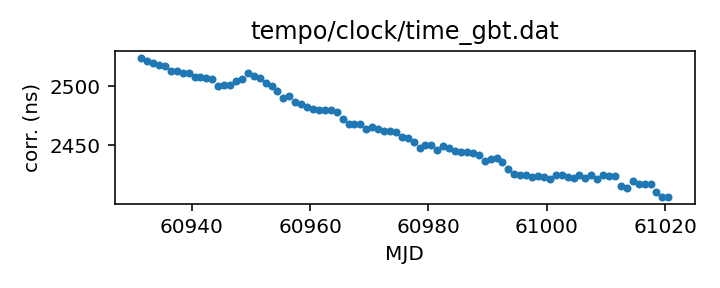
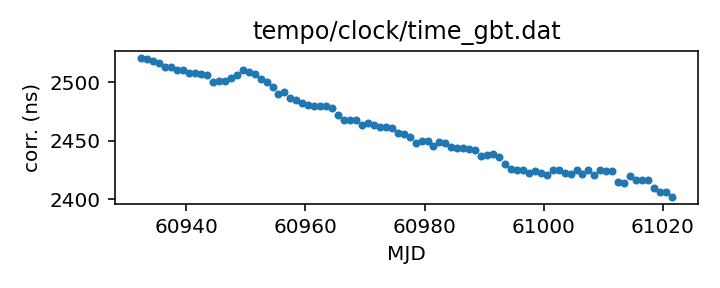
Routine gh-pages update from Github action Sat Dec 13 20:42:00 UTC 2025

diff --git a/status.md b/status.md
@@ -13,18 +13,18 @@ name of each clock file links to a page with more details.
 
 | Name | File | Corrections start | Corrections end | Last check date | Last check result 
 |:--- |:--- | --- | --- | --- |:--- 
-| [GPS to UTC](T2runtime/clock/gps2utc.clk.html) | `T2runtime/clock/gps2utc.clk` | 1993-01-01 MJD 48988.0 | 2025-11-30 MJD 61009.0 | 2025-12-12 | Unchanged 
-| [GPS to UTC (Combined Clock)](T2runtime/clock/gps2utc_cc.clk.html) | `T2runtime/clock/gps2utc_cc.clk` | 1993-01-01 MJD 48988.0 | 2025-11-30 MJD 61009.0 | 2025-12-12 | Unchanged 
-| [GPS to UTC (Corrected)](T2runtime/clock/gps2utc_c0p.clk.html) | `T2runtime/clock/gps2utc_c0p.clk` | 2010-12-29 MJD 55559.0 | 2025-11-30 MJD 61009.0 | 2025-12-12 | Unchanged 
-| [GBT](tempo/clock/time_gbt.dat.html) | `tempo/clock/time_gbt.dat` | 2000-12-31 MJD 51909.5 | 2025-12-11 MJD 61020.5 | 2025-12-12 | Updated 
-| [GBT (TEMPO2 converted from TEMPO)](T2runtime/clock/gbt2gps.clk.html) | `T2runtime/clock/gbt2gps.clk` | 2000-12-31 MJD 51909.5 | 2024-05-18 MJD 60448.5 | 2025-12-12 | **Validation failed** 
+| [GPS to UTC](T2runtime/clock/gps2utc.clk.html) | `T2runtime/clock/gps2utc.clk` | 1993-01-01 MJD 48988.0 | 2025-11-30 MJD 61009.0 | 2025-12-13 | Unchanged 
+| [GPS to UTC (Combined Clock)](T2runtime/clock/gps2utc_cc.clk.html) | `T2runtime/clock/gps2utc_cc.clk` | 1993-01-01 MJD 48988.0 | 2025-11-30 MJD 61009.0 | 2025-12-13 | Unchanged 
+| [GPS to UTC (Corrected)](T2runtime/clock/gps2utc_c0p.clk.html) | `T2runtime/clock/gps2utc_c0p.clk` | 2010-12-29 MJD 55559.0 | 2025-11-30 MJD 61009.0 | 2025-12-13 | Unchanged 
+| [GBT](tempo/clock/time_gbt.dat.html) | `tempo/clock/time_gbt.dat` | 2000-12-31 MJD 51909.5 | 2025-12-12 MJD 61021.5 | 2025-12-13 | Updated 
+| [GBT (TEMPO2 converted from TEMPO)](T2runtime/clock/gbt2gps.clk.html) | `T2runtime/clock/gbt2gps.clk` | 2000-12-31 MJD 51909.5 | 2024-05-18 MJD 60448.5 | 2025-12-13 | **Validation failed** 
 | [Jodrell Bank](T2runtime/clock/jb2gps.clk.html) | `T2runtime/clock/jb2gps.clk` | 2006-10-13 MJD 54021.4 | 2025-10-08 MJD 60956.0 | 2025-12-08 | **Validation failed** 
 | [Jodrell Bank Roach](T2runtime/clock/jbroach2jb.clk.html) | `T2runtime/clock/jbroach2jb.clk` | 2006-10-13 MJD 54021.4 | 2018-03-20 MJD 58197.6 | 2025-12-08 | Unchanged 
 | [Jodrell Bank DFB](T2runtime/clock/jbdfb2jb.clk.html) | `T2runtime/clock/jbdfb2jb.clk` | 2006-10-13 MJD 54021.4 | 2021-02-22 MJD 59268.0 | 2025-12-08 | Unchanged 
 | [Meerkat (observatory)](T2runtime/clock/mk2utc_observatory.clk.html) | `T2runtime/clock/mk2utc_observatory.clk` | 2019-01-01 MJD 58484.0 | 2025-11-14 MJD 60994.0 | 2025-12-08 | Unchanged 
-| [Leap seconds](tempo/clock/leap.sec.html) | `tempo/clock/leap.sec` | 1972-07-01 MJD 41499.0 | 2017-01-01 MJD 57754.0 | 2025-12-12 | Unchanged 
-| [UT1 table](tempo/clock/ut1.dat.html) | `tempo/clock/ut1.dat` | 1973-01-02 MJD 41684.0 | 2026-12-19 MJD 61393.0 | 2025-12-12 | Unchanged 
-| [UT1 table](T2runtime/clock/ut1.dat.html) | `T2runtime/clock/ut1.dat` | 1973-01-02 MJD 41684.0 | 2026-12-19 MJD 61393.0 | 2025-12-12 | Unchanged 
+| [Leap seconds](tempo/clock/leap.sec.html) | `tempo/clock/leap.sec` | 1972-07-01 MJD 41499.0 | 2017-01-01 MJD 57754.0 | 2025-12-13 | Unchanged 
+| [UT1 table](tempo/clock/ut1.dat.html) | `tempo/clock/ut1.dat` | 1973-01-02 MJD 41684.0 | 2026-12-19 MJD 61393.0 | 2025-12-13 | Unchanged 
+| [UT1 table](T2runtime/clock/ut1.dat.html) | `T2runtime/clock/ut1.dat` | 1973-01-02 MJD 41684.0 | 2026-12-19 MJD 61393.0 | 2025-12-13 | Unchanged 
 
 
 

diff --git a/T2runtime/clock/gbt2gps.clk.md b/T2runtime/clock/gbt2gps.clk.md
@@ -25,12 +25,11 @@ If questions arise about the conversion, contact Anne Archibald
 | Clock file start | 2000-12-31 MJD 51909.5 |
 | Clock file end | 2024-05-18 MJD 60448.5 |
 | Update interval (days) | 1 |
-| Last update attempt | 2025-12-12 |
+| Last update attempt | 2025-12-13 |
 | Last update result | Validation failed |
 
 Log entries from the last few update attempts:
 ```
-2025-12-03 20:46:11.768 - Validation failed: New version of T2runtime/clock/gbt2gps.clk MJDs differ from old version where they overlap in 8407 places
 2025-12-04 20:45:40.500 - Validation failed: New version of T2runtime/clock/gbt2gps.clk MJDs differ from old version where they overlap in 8407 places
 2025-12-05 20:44:34.061 - Validation failed: New version of T2runtime/clock/gbt2gps.clk MJDs differ from old version where they overlap in 8407 places
 2025-12-06 20:41:04.082 - Validation failed: New version of T2runtime/clock/gbt2gps.clk MJDs differ from old version where they overlap in 8407 places
@@ -40,6 +39,7 @@ Log entries from the last few update attempts:
 2025-12-10 20:47:13.514 - Validation failed: New version of T2runtime/clock/gbt2gps.clk MJDs differ from old version where they overlap in 8407 places
 2025-12-11 20:43:23.197 - Validation failed: New version of T2runtime/clock/gbt2gps.clk MJDs differ from old version where they overlap in 8407 places
 2025-12-12 20:44:18.350 - Validation failed: New version of T2runtime/clock/gbt2gps.clk MJDs differ from old version where they overlap in 8407 places
+2025-12-13 20:41:37.242 - Validation failed: New version of T2runtime/clock/gbt2gps.clk MJDs differ from old version where they overlap in 8407 places
 ```
 [Full log](https://raw.githubusercontent.com/ipta/pulsar-clock-corrections/main/log/T2runtime/clock/gbt2gps.clk.log)
 

diff --git a/tempo/clock/time_gbt.dat.md b/tempo/clock/time_gbt.dat.md
@@ -36,14 +36,13 @@ If questions arise, contact Ryan S. Lynch <rlynch@nrao.edu>.
 | Format | tempo |
 | Bogus last correction | False |
 | Clock file start | 2000-12-31 MJD 51909.5 |
-| Clock file end | 2025-12-11 MJD 61020.5 |
+| Clock file end | 2025-12-12 MJD 61021.5 |
 | Update interval (days) | 1 |
-| Last update attempt | 2025-12-12 |
+| Last update attempt | 2025-12-13 |
 | Last update result | Updated |
 
 Log entries from the last few update attempts:
 ```
-2025-12-03 20:46:11.699 - Updated
 2025-12-04 20:45:40.432 - Updated
 2025-12-05 20:44:33.990 - Updated
 2025-12-06 20:41:04.013 - Updated
@@ -53,12 +52,13 @@ Log entries from the last few update attempts:
 2025-12-10 20:47:13.444 - Updated
 2025-12-11 20:43:23.129 - Updated
 2025-12-12 20:44:18.284 - Updated
+2025-12-13 20:41:37.170 - Updated
 ```
 [Full log](https://raw.githubusercontent.com/ipta/pulsar-clock-corrections/main/log/tempo/clock/time_gbt.dat.log)
 
 Leading comments from clock file:
 
-     -2271.50       0.0        -0.486 1    32764-dec
+     -2271.50       0.0        -0.486 1    32767-dec
 
 
 

diff --git a/T2runtime/clock/gps2utc_c0p.clk.md b/T2runtime/clock/gps2utc_c0p.clk.md
@@ -30,12 +30,11 @@ about the BIPM's published corrections, contact <tai@bipm.org>.
 | Clock file start | 2010-12-29 MJD 55559.0 |
 | Clock file end | 2025-11-30 MJD 61009.0 |
 | Update interval (days) | 1 |
-| Last update attempt | 2025-12-12 |
+| Last update attempt | 2025-12-13 |
 | Last update result | Unchanged |
 
 Log entries from the last few update attempts:
 ```
-2025-12-03 20:46:11.037 - Unchanged
 2025-12-04 20:45:39.560 - Unchanged
 2025-12-05 20:44:33.168 - Unchanged
 2025-12-06 20:41:03.149 - Unchanged
@@ -45,6 +44,7 @@ Log entries from the last few update attempts:
 2025-12-10 20:47:12.900 - Unchanged
 2025-12-11 20:43:22.235 - Updated
 2025-12-12 20:44:16.866 - Unchanged
+2025-12-13 20:41:36.562 - Unchanged
 ```
 [Full log](https://raw.githubusercontent.com/ipta/pulsar-clock-corrections/main/log/T2runtime/clock/gps2utc_c0p.clk.log)
 

diff --git a/T2runtime/clock/gps2utc_cc.clk.md b/T2runtime/clock/gps2utc_cc.clk.md
@@ -29,12 +29,11 @@ about the BIPM's published corrections, contact <tai@bipm.org>.
 | Clock file start | 1993-01-01 MJD 48988.0 |
 | Clock file end | 2025-11-30 MJD 61009.0 |
 | Update interval (days) | 1 |
-| Last update attempt | 2025-12-12 |
+| Last update attempt | 2025-12-13 |
 | Last update result | Unchanged |
 
 Log entries from the last few update attempts:
 ```
-2025-12-03 20:46:11.029 - Unchanged
 2025-12-04 20:45:39.553 - Unchanged
 2025-12-05 20:44:33.159 - Unchanged
 2025-12-06 20:41:03.141 - Unchanged
@@ -44,6 +43,7 @@ Log entries from the last few update attempts:
 2025-12-10 20:47:12.890 - Unchanged
 2025-12-11 20:43:22.210 - Updated
 2025-12-12 20:44:16.859 - Unchanged
+2025-12-13 20:41:36.554 - Unchanged
 ```
 [Full log](https://raw.githubusercontent.com/ipta/pulsar-clock-corrections/main/log/T2runtime/clock/gps2utc_cc.clk.log)
 

diff --git a/T2runtime/clock/gps2utc.clk.md b/T2runtime/clock/gps2utc.clk.md
@@ -32,12 +32,11 @@ about the BIPM's published corrections, contact <tai@bipm.org>.
 | Clock file start | 1993-01-01 MJD 48988.0 |
 | Clock file end | 2025-11-30 MJD 61009.0 |
 | Update interval (days) | 1 |
-| Last update attempt | 2025-12-12 |
+| Last update attempt | 2025-12-13 |
 | Last update result | Unchanged |
 
 Log entries from the last few update attempts:
 ```
-2025-12-03 20:46:11.007 - Unchanged
 2025-12-04 20:45:39.531 - Unchanged
 2025-12-05 20:44:33.136 - Unchanged
 2025-12-06 20:41:03.119 - Unchanged
@@ -47,6 +46,7 @@ Log entries from the last few update attempts:
 2025-12-10 20:47:12.868 - Unchanged
 2025-12-11 20:43:22.150 - Updated
 2025-12-12 20:44:16.838 - Unchanged
+2025-12-13 20:41:36.532 - Unchanged
 ```
 [Full log](https://raw.githubusercontent.com/ipta/pulsar-clock-corrections/main/log/T2runtime/clock/gps2utc.clk.log)
 

diff --git a/tempo/clock/leap.sec.md b/tempo/clock/leap.sec.md
@@ -21,12 +21,11 @@ If there are any questions, contact Anne Archibald
 | File start | 1972-07-01 MJD 41499.0 |
 | File end | 2017-01-01 MJD 57754.0 |
 | Update interval (days) | 0 |
-| Last update attempt | 2025-12-12 |
+| Last update attempt | 2025-12-13 |
 | Last update result | Unchanged |
 
 Log entries from the last few update attempts:
 ```
-2025-12-03 20:46:11.794 - Unchanged
 2025-12-04 20:45:40.525 - Unchanged
 2025-12-05 20:44:34.089 - Unchanged
 2025-12-06 20:41:04.108 - Unchanged
@@ -36,5 +35,6 @@ Log entries from the last few update attempts:
 2025-12-10 20:47:13.541 - Unchanged
 2025-12-11 20:43:23.222 - Unchanged
 2025-12-12 20:44:18.372 - Unchanged
+2025-12-13 20:41:37.267 - Unchanged
 ```
 [Full log](https://raw.githubusercontent.com/ipta/pulsar-clock-corrections/main/log/tempo/clock/leap.sec.log)

diff --git a/T2runtime/clock/ut1.dat.md b/T2runtime/clock/ut1.dat.md
@@ -30,12 +30,11 @@ If there are any questions, contact Anne Archibald
 | File start | 1973-01-02 MJD 41684.0 |
 | File end | 2026-12-19 MJD 61393.0 |
 | Update interval (days) | 0 |
-| Last update attempt | 2025-12-12 |
+| Last update attempt | 2025-12-13 |
 | Last update result | Unchanged |
 
 Log entries from the last few update attempts:
 ```
-2025-12-03 20:46:20.506 - Unchanged
 2025-12-04 20:45:52.420 - Updated
 2025-12-05 20:44:46.670 - Unchanged
 2025-12-06 20:41:14.631 - Unchanged
@@ -45,5 +44,6 @@ Log entries from the last few update attempts:
 2025-12-10 20:47:22.475 - Unchanged
 2025-12-11 20:43:35.801 - Updated
 2025-12-12 20:44:29.857 - Unchanged
+2025-12-13 20:41:46.527 - Unchanged
 ```
 [Full log](https://raw.githubusercontent.com/ipta/pulsar-clock-corrections/main/log/T2runtime/clock/ut1.dat.log)

diff --git a/tempo/clock/ut1.dat.md b/tempo/clock/ut1.dat.md
@@ -30,12 +30,11 @@ If there are any questions, contact Anne Archibald
 | File start | 1973-01-02 MJD 41684.0 |
 | File end | 2026-12-19 MJD 61393.0 |
 | Update interval (days) | 0 |
-| Last update attempt | 2025-12-12 |
+| Last update attempt | 2025-12-13 |
 | Last update result | Unchanged |
 
 Log entries from the last few update attempts:
 ```
-2025-12-03 20:46:20.457 - Unchanged
 2025-12-04 20:45:52.372 - Updated
 2025-12-05 20:44:46.621 - Unchanged
 2025-12-06 20:41:14.583 - Unchanged
@@ -45,5 +44,6 @@ Log entries from the last few update attempts:
 2025-12-10 20:47:22.426 - Unchanged
 2025-12-11 20:43:35.753 - Updated
 2025-12-12 20:44:29.813 - Unchanged
+2025-12-13 20:41:46.479 - Unchanged
 ```
 [Full log](https://raw.githubusercontent.com/ipta/pulsar-clock-corrections/main/log/tempo/clock/ut1.dat.log)
